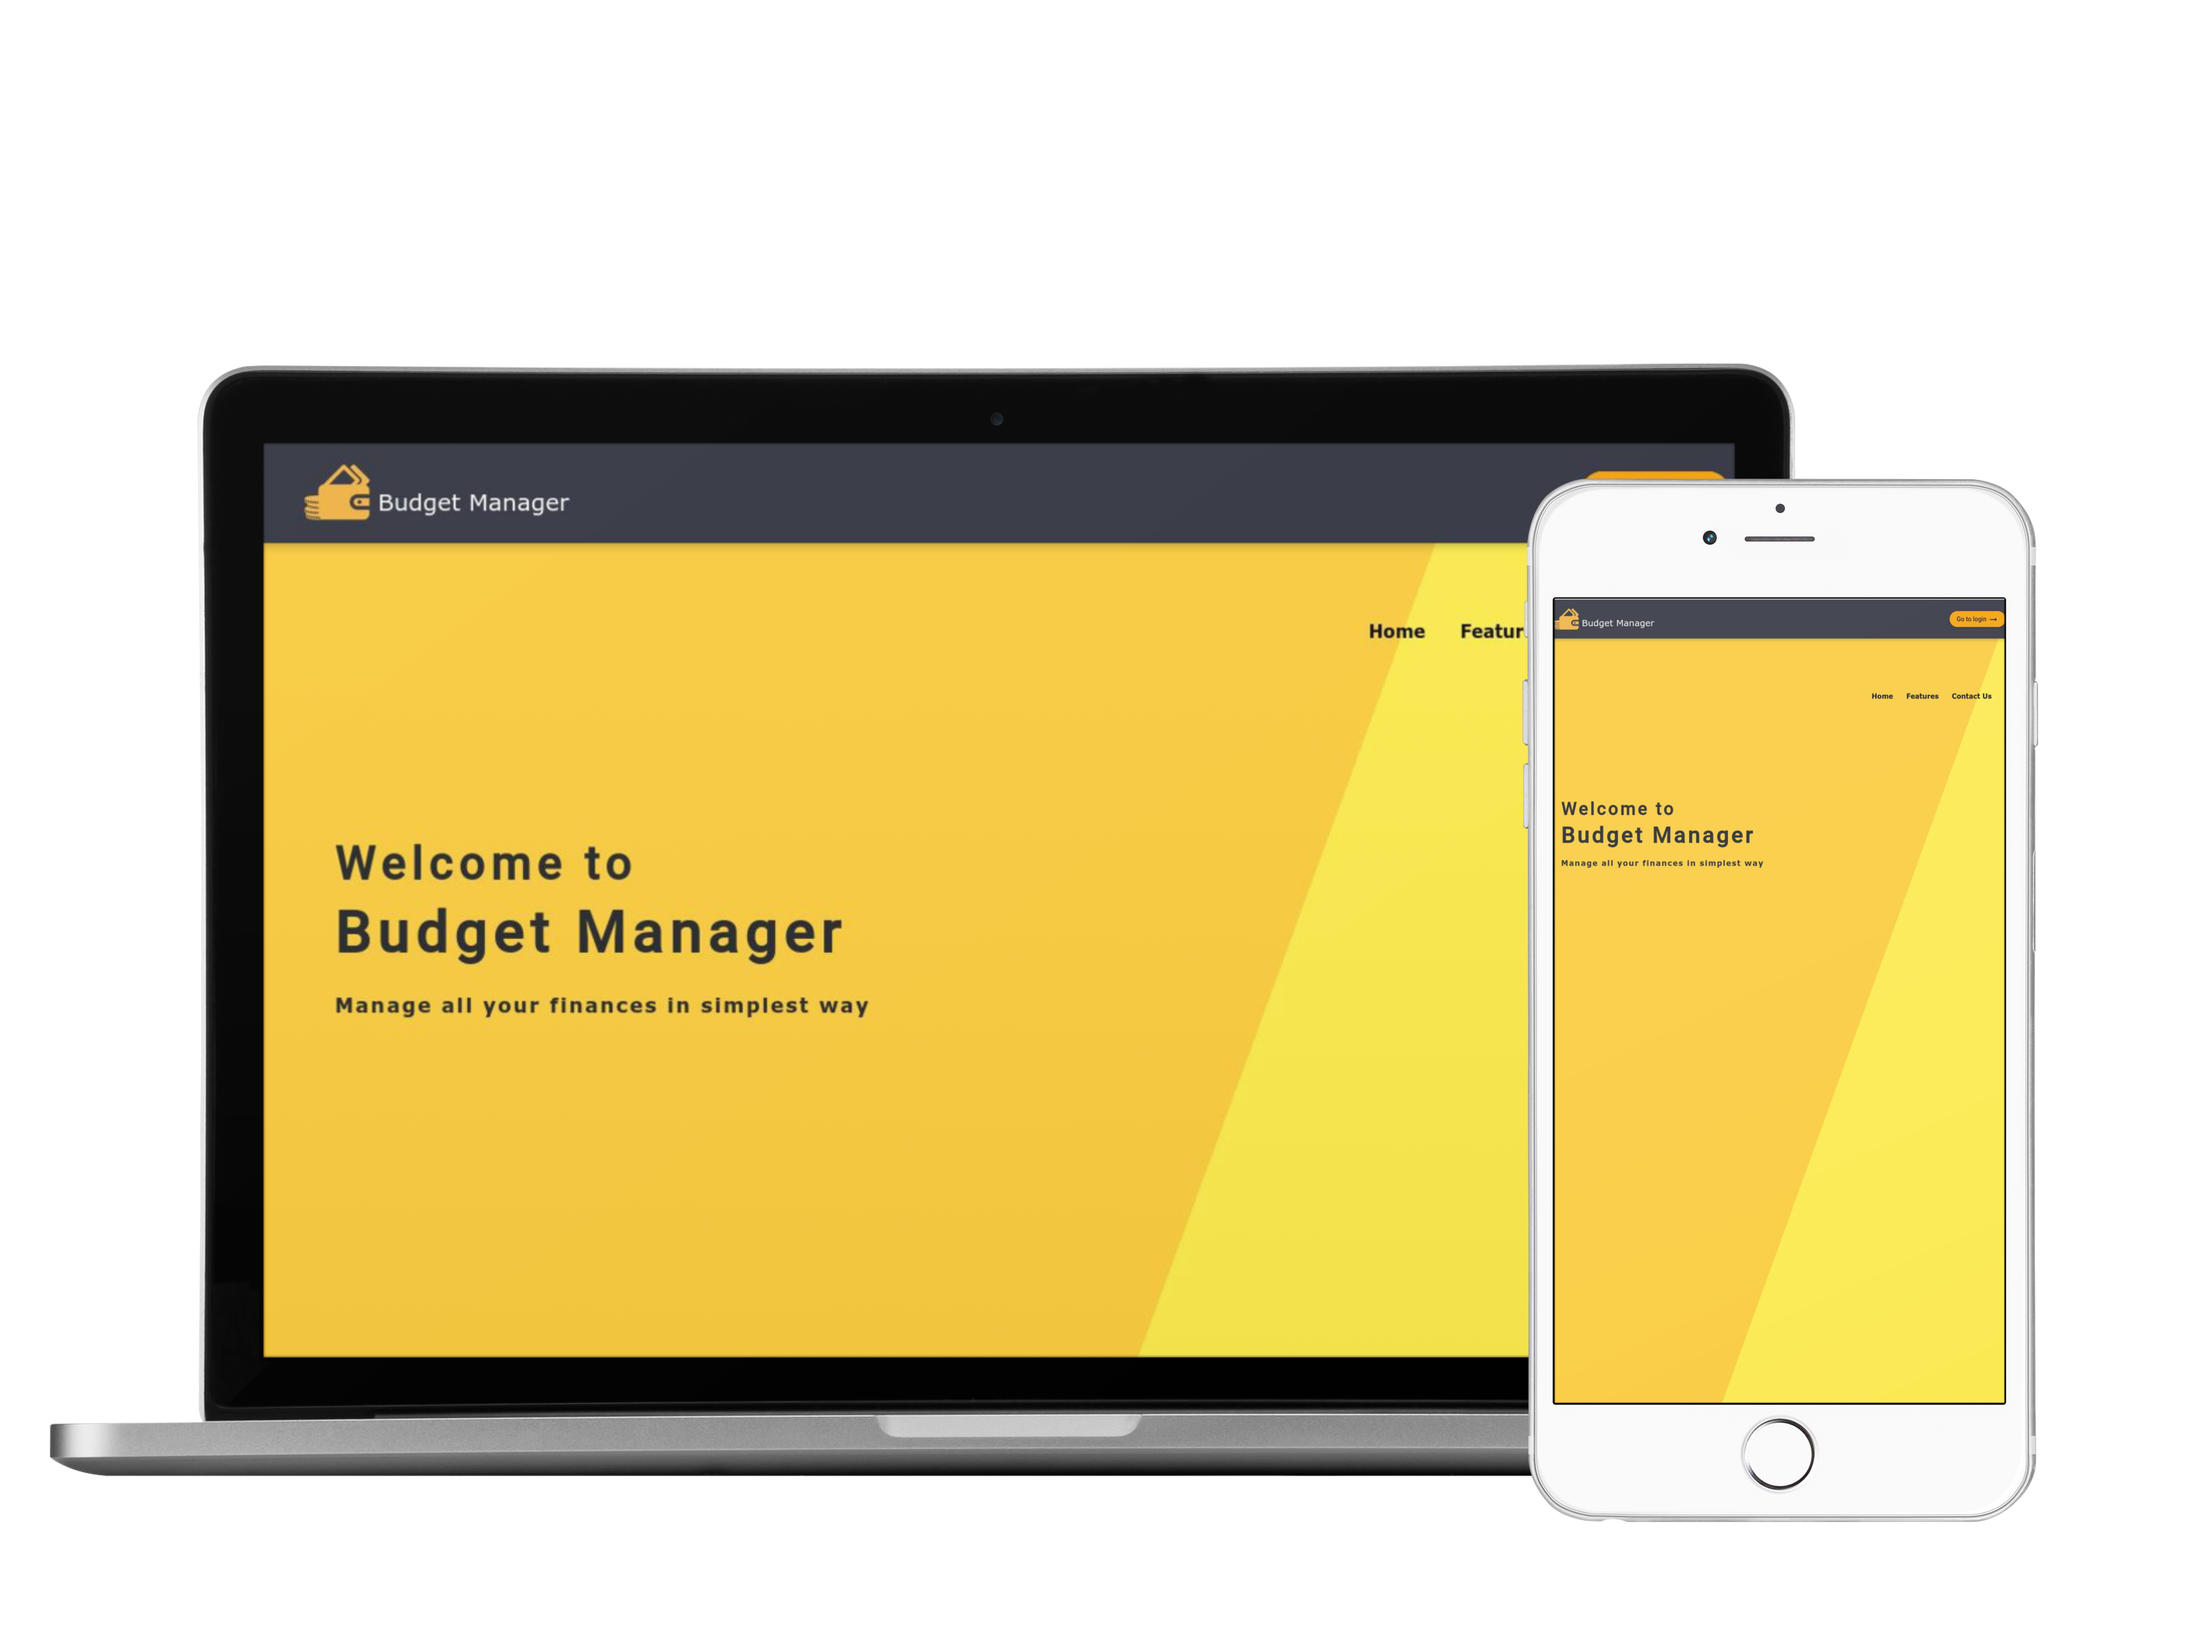
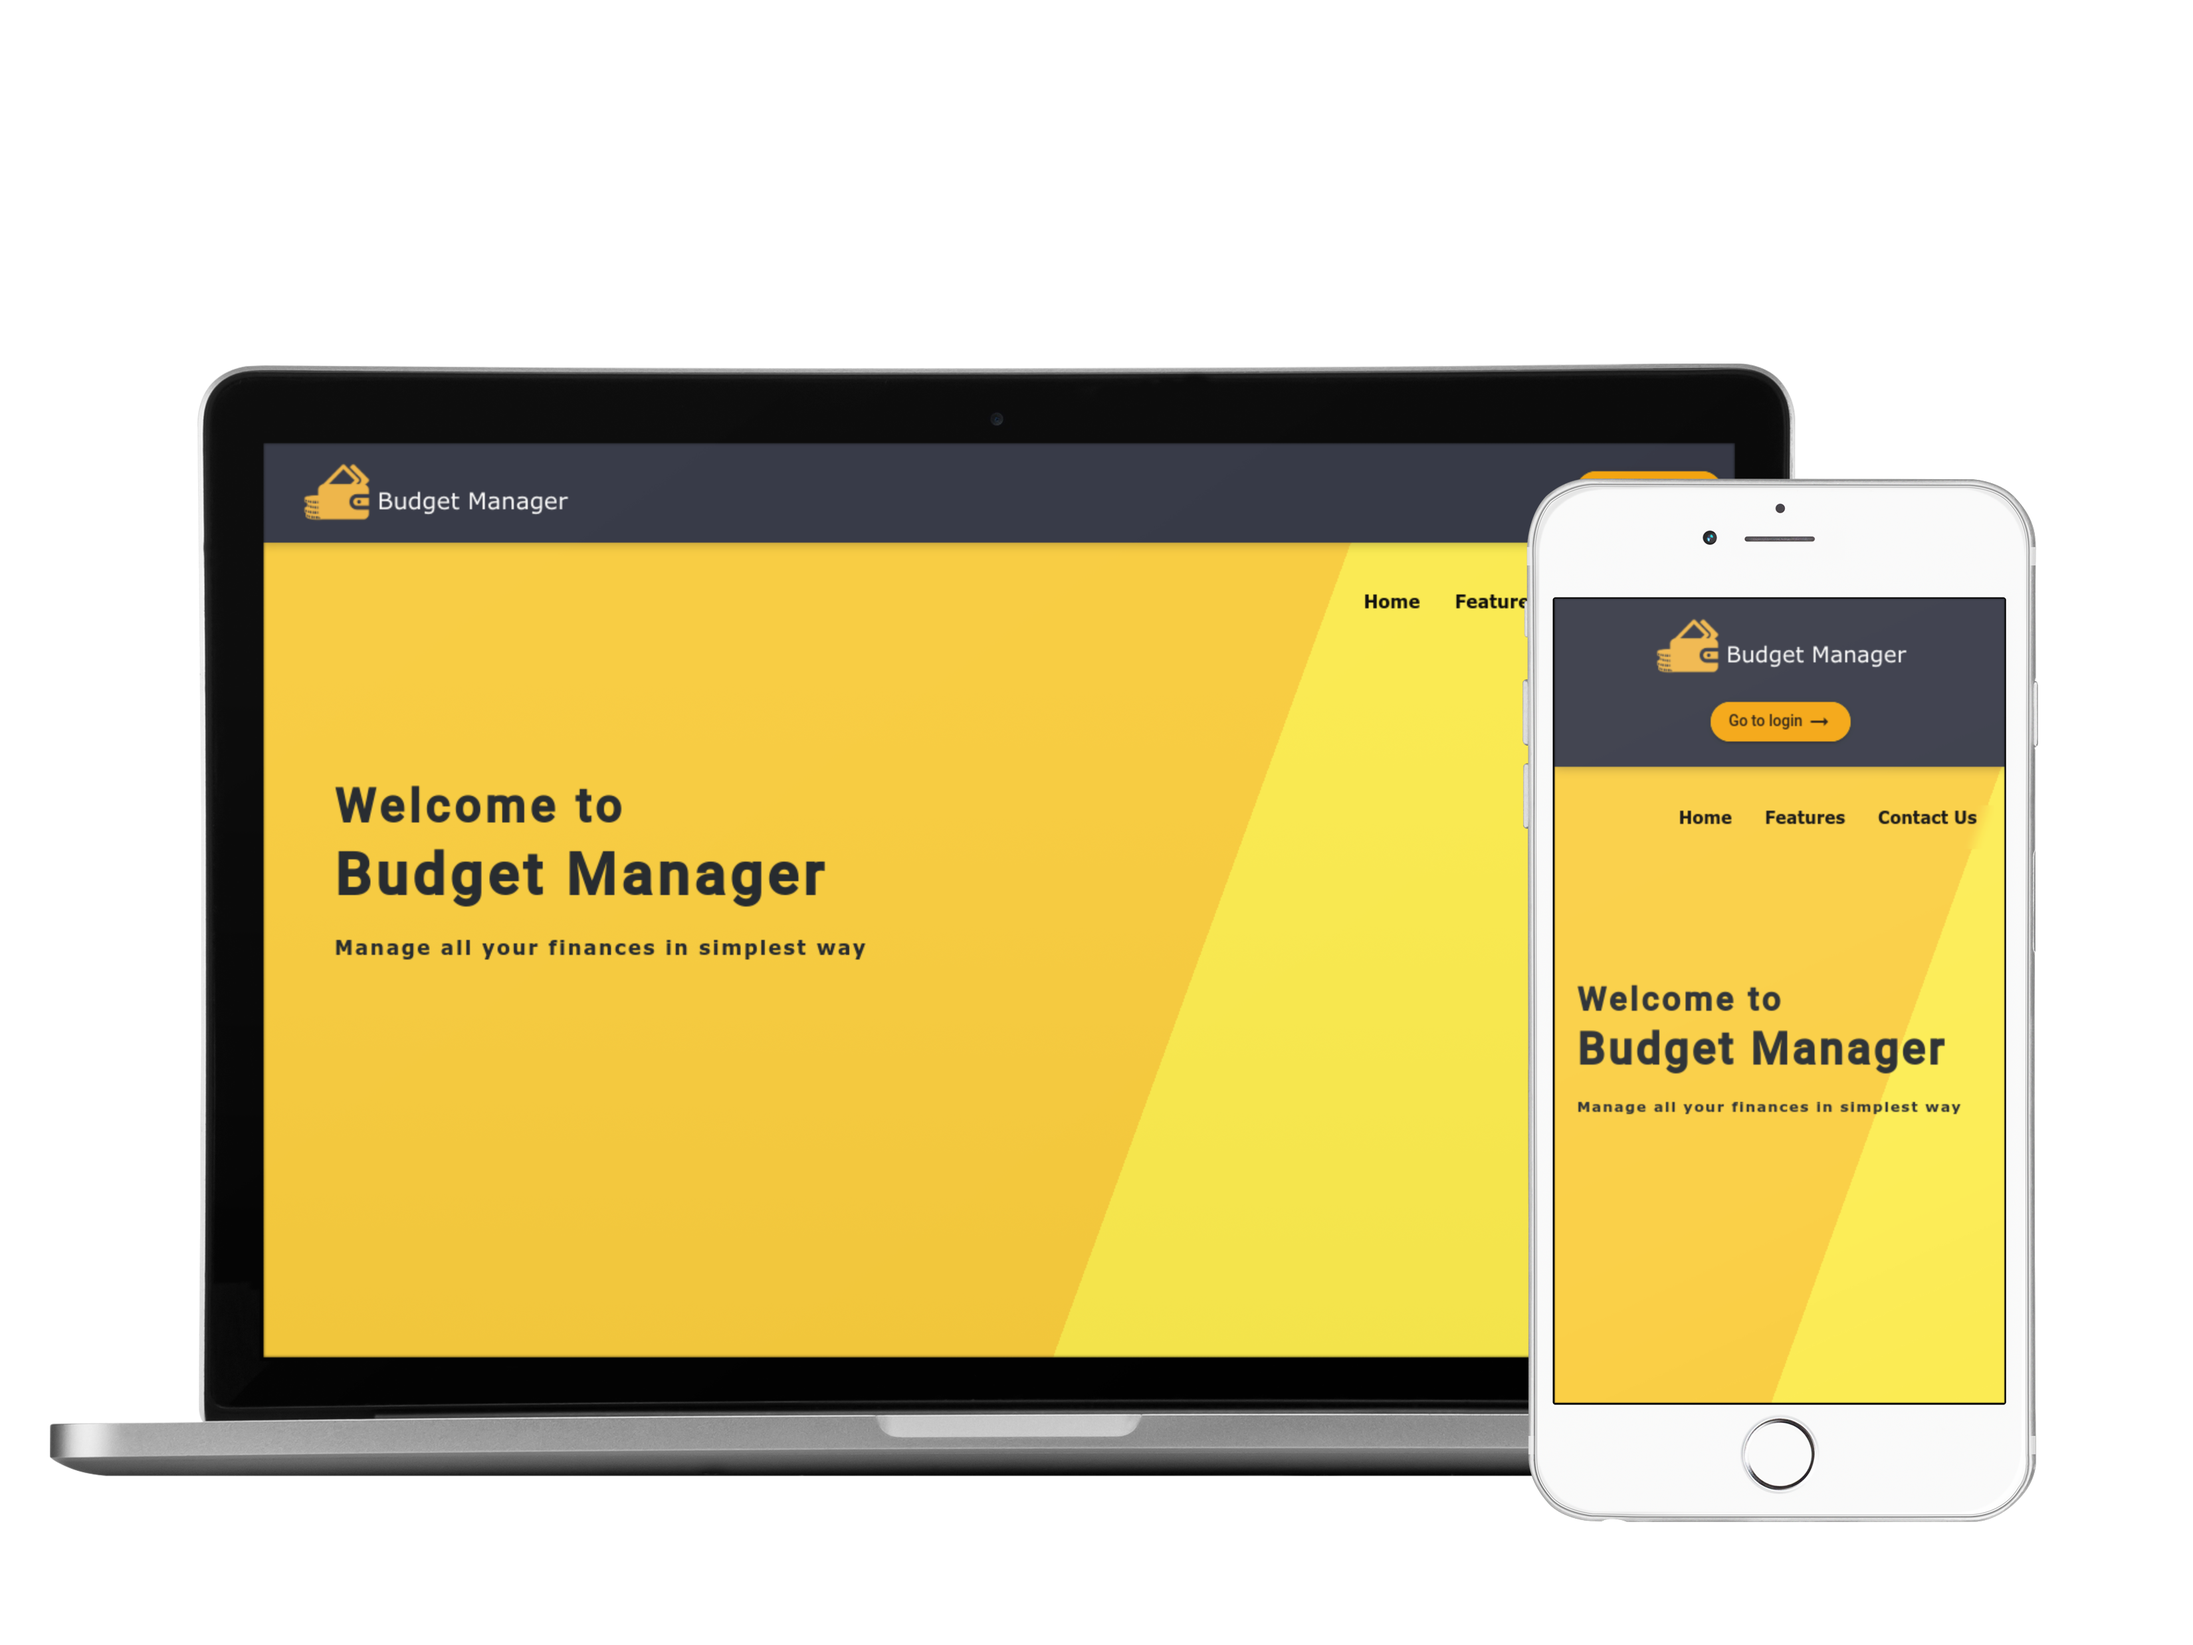
fixes for mobile screen devices

Changed region(s): [[0.4682, 0.3111, 0.9364, 0.8711], [0.1561, 0.4667, 0.4058, 0.6222], [0.1561, 0.28, 0.2497, 0.3111]]

diff --git a/index.html b/index.html
@@ -8,11 +8,11 @@
     <meta name="description" content="Pankaj's Portfolio">
     <title>Pankaj's Portfolio</title>
     <link rel="stylesheet" href="./style.css">
+    <link rel="stylesheet" href="./control-center.css">
     <link rel="preconnect" href="https://fonts.googleapis.com">
     <link rel="preconnect" href="https://fonts.gstatic.com" crossorigin>
     <link href="https://fonts.googleapis.com/css2?family=Red+Hat+Mono:wght@400;500;600&display=swap" rel="stylesheet">
     <link rel="stylesheet" href="https://cdnjs.cloudflare.com/ajax/libs/font-awesome/5.15.4/css/all.min.css">
-    <link rel="stylesheet" href="./control-center.css">
 </head>
 
 <body>
@@ -87,16 +87,16 @@
             <div class="skillsContainer">
                 <h2 class="font-3">With 5+ years of experience in Web Development</h2>
                 <div class="skills">
-                    <div class="card">
+                    <div class="card" href="https://angular.io/">
                         <img src="./src/images/angular.png" alt="Angular" class="skill-img">
                     </div>
-                    <div class="card">
+                    <div class="card" href="https://react.dev/">
                         <img src="./src/images/react.png" alt="React" class="skill-img">
                     </div>
-                    <div class="card">
+                    <div class="card" href="https://nodejs.org/en">
                         <img src="./src/images/node-js.png" alt="Node" class="skill-img">
                     </div>
-                    <div class="card">
+                    <div class="card" href="https://expressjs.com/">
                         <img src="./src/images/express.png" alt="Express" class="skill-img">
                     </div>
                     <a class="card" href="https://www.mongodb.com/">
@@ -111,7 +111,10 @@
             <div class="project">
                 <div class="projectDesc">
                     <div class="font-3">
-                        <h2><a href="https://mybudgetmanager.up.railway.app/">Budget Manager</a></h2>
+                        <h2 class="flex">
+                            <span>Budget Manager</span>
+                            <a class="visit-link" href="https://mybudgetmanager.up.railway.app/"><i class="font-2 fas fa-external-link-alt cursor-pointer"></i></a>
+                        </h2>
                     </div>
                     <div class="card-1 mg-t1">
                         <div class="font-2">
@@ -136,7 +139,10 @@
             <div class="project">
                 <div class="projectDesc">
                     <div class="font-3">
-                        <h2><a href="https://textme.up.railway.app/">TextMe</a></h2>
+                        <h2 class="flex">
+                            <span>TextMe</span>
+                            <a class="visit-link" href="https://textme.up.railway.app/"><i class="font-2 fas fa-external-link-alt cursor-pointer"></i></a>
+                        </h2>
                     </div>
                     <div class="card-1 mg-t1">
                         <div class="font-2">
@@ -161,7 +167,10 @@
             <div class="project">
                 <div class="projectDesc">
                     <div class="font-3">
-                        <h2><a href="https://mytodolist.up.railway.app/">Todo List</a></h2>
+                        <h2 class="flex">
+                            <span>Todo List</span>
+                            <a class="visit-link" href="https://mytodolist.up.railway.app/"><i class="font-2 fas fa-external-link-alt cursor-pointer"></i></a>
+                        </h2>
                     </div>
                     <div class="card-1 mg-t1">
                         <div class="font-2">

diff --git a/style.css b/style.css
@@ -66,6 +66,11 @@ body {
     font-size: 10vw;
 }
 
+.flex {
+    display: flex;
+    gap: 1rem;
+}
+
 /* Overwrite the default to keep the scrollbar always visible */
 ::-webkit-scrollbar {
     -webkit-appearance: none;
@@ -204,7 +209,7 @@ ul.horizontal-list li:not(:last-child) {
     display: flex;
     flex-direction: row;
     align-items: center;
-    margin: 0.5vw;
+    margin: 1vw;
 }
 
 .mac-btn {
@@ -440,7 +445,31 @@ input[type=submit]:hover {
 @media screen and (max-width: 640px) and (orientation: landscape) {}
 
 /* For Mobile Phones Portrait or Landscape View */
-@media screen and (max-width: 640px) {}
+@media screen and (max-width: 640px) {
+    .font-2 {
+        font-size: 3vw;
+    }
+    .font-3 {
+        font-size: 4vw;
+    }
+    .profilePic {
+        height: 30vw;
+        width: 30vw;
+    }
+    .skillsContainer {
+        gap: 5vw;
+        margin: 5rem;
+    }
+    .laptop-mockup {
+        width: 50vw;
+    }
+    .contactUs {
+        width: 70%;
+    }
+    .contactUsForm {
+        font-size: 3vw;
+    }
+}
 
 /* Default styles for the submit button */
   

diff --git a/app.js b/app.js
@@ -34,7 +34,7 @@ function toggleControlCenter() {
     } else {
         // Open the control center
         controlCenter.style.top = headerHeight + "px"; // Position below header
-        controlCenter.style.height = "calc(60% - " + headerHeight + "px)"; // Adjust height as needed
+        controlCenter.style.height = "calc(70% - " + headerHeight + "px)"; // Adjust height as needed
     }
 }
 
